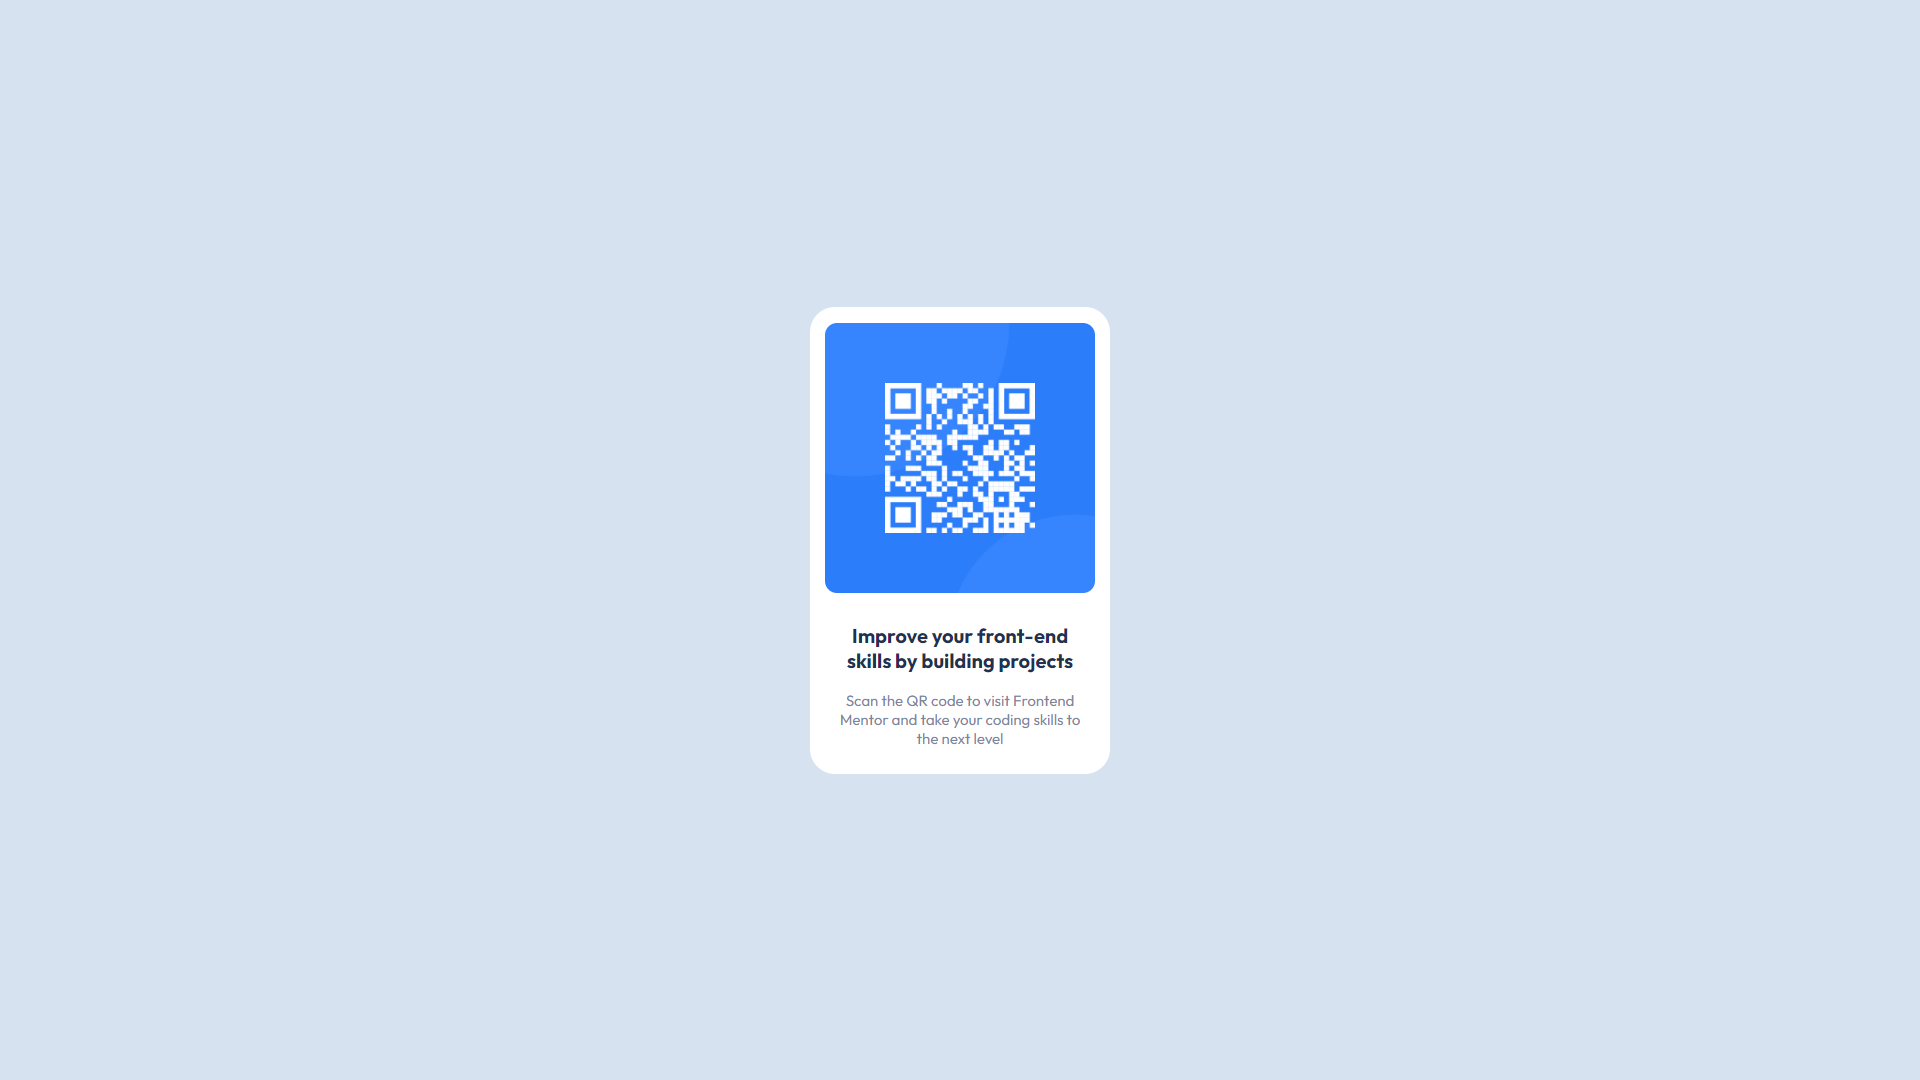
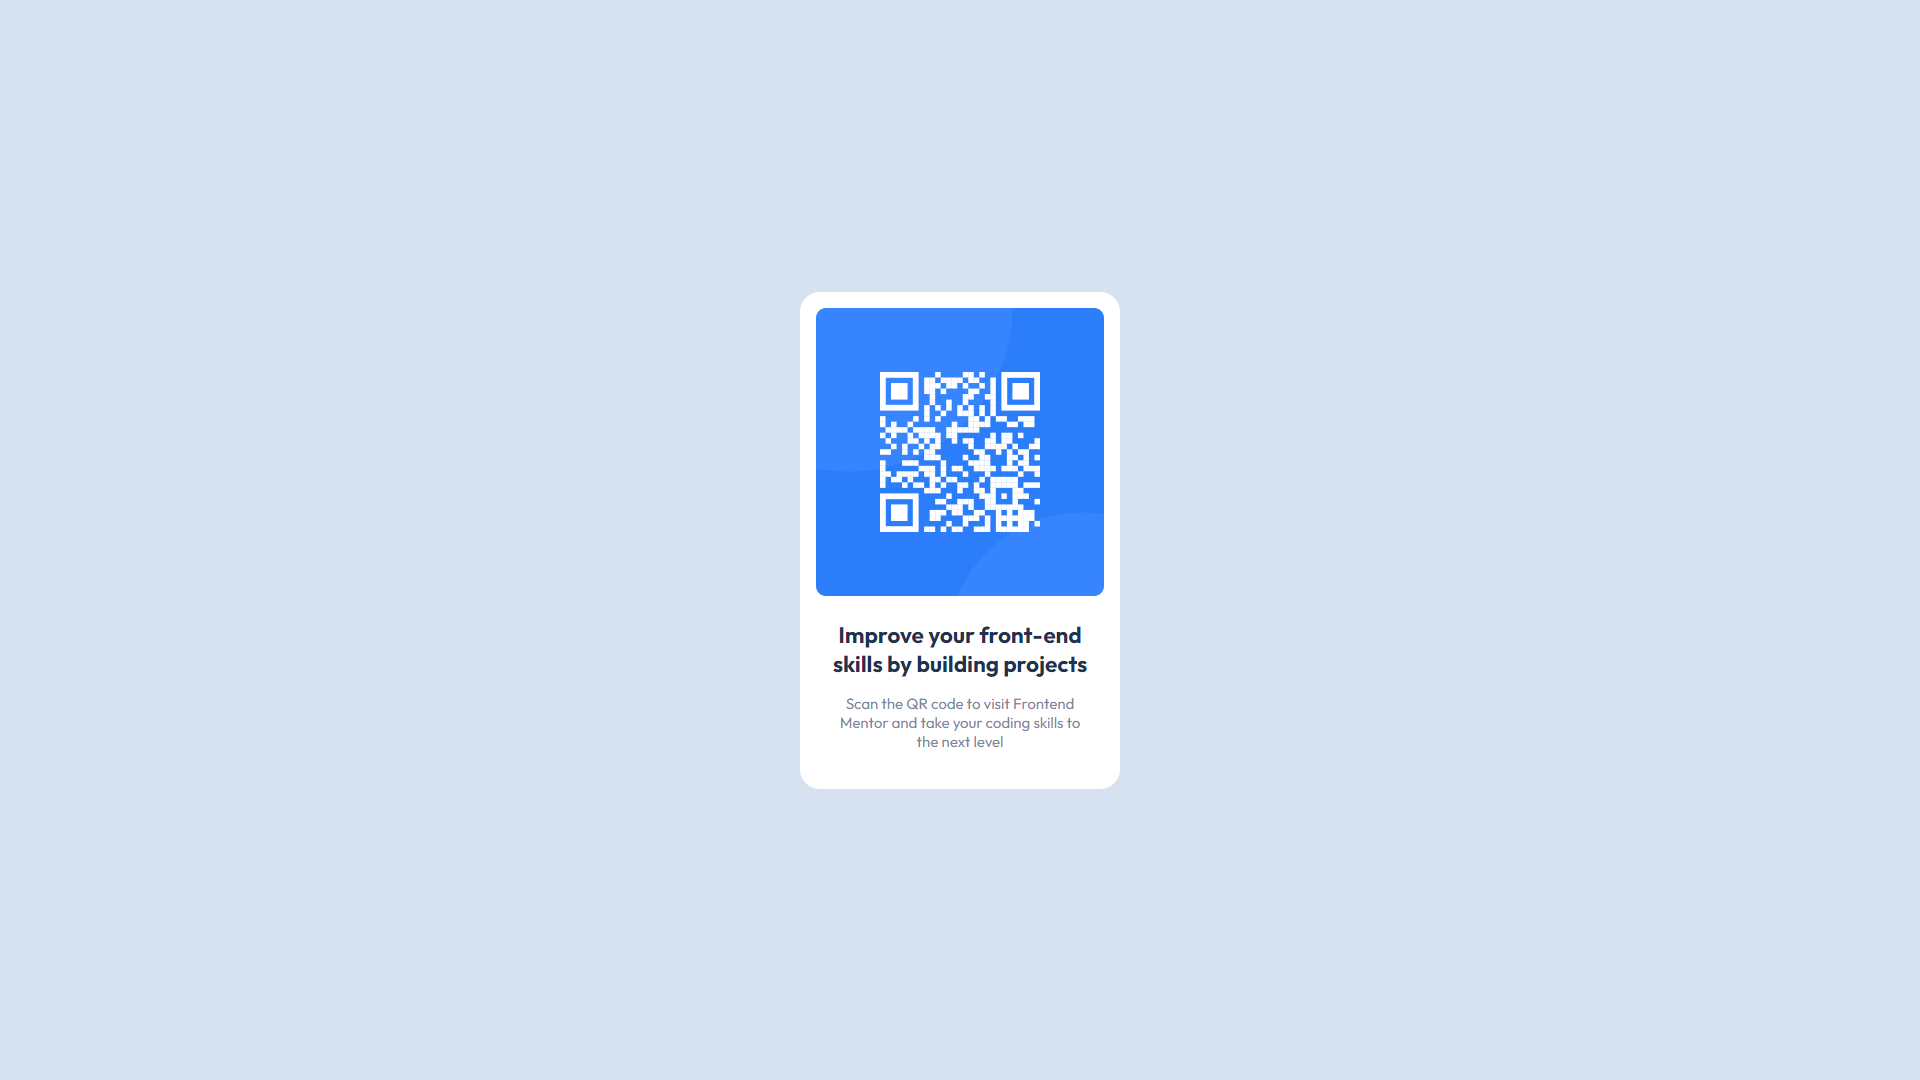
Modifying styles

Changed region(s): [[0.4062, 0.2444, 0.5938, 0.7333]]

diff --git a/css/style.css b/css/style.css
@@ -13,6 +13,10 @@
     --dark-blue: hsl(218, 44%, 22%);
 }
 
+html {
+    font-size: 15px;
+}
+
 .container {
     display: flex;
     flex-direction: column;
@@ -22,46 +26,41 @@
     background-color: var(--light-gray);
 }
 
-.card, .qr, .text {
-    margin: 0 auto;
-}
-
-.card, .qr {
-    border-radius: 25px;
+.card {
+    border-radius: 20px;
     padding: 8px 0;
 }
 
 .card {
-    width: 300px;
+    max-width: 320px;
+    min-height: 497px;
+    padding: 16px;
     background-color: var(--white);
 }
 
 .qr {
-    width: 90%;
+    height: 288px;
 }
 
 .qr img {
-    max-width: 100%;
-    border-radius: 12px;
+    width: 100%;
+    height: 100%;
+    border-radius: 10px;
 }
 
 .text {
-    width: 85%;
     text-align: center;
-}
-
-.text h1, .text p {
-    margin: 18px 0;
+    margin-top: 24px;
 }
 
 .text h1 {
     font-family: var(--outfit-bold);
-    font-size: 20px;
     color: var(--dark-blue);
+    margin-bottom: 16px;
 }
 
 .text p {
     font-family: var(--outfit-regular);
-    font-size: 15px;
     color: var(--grayish-blue);
+    padding: 0 12px;
 }
